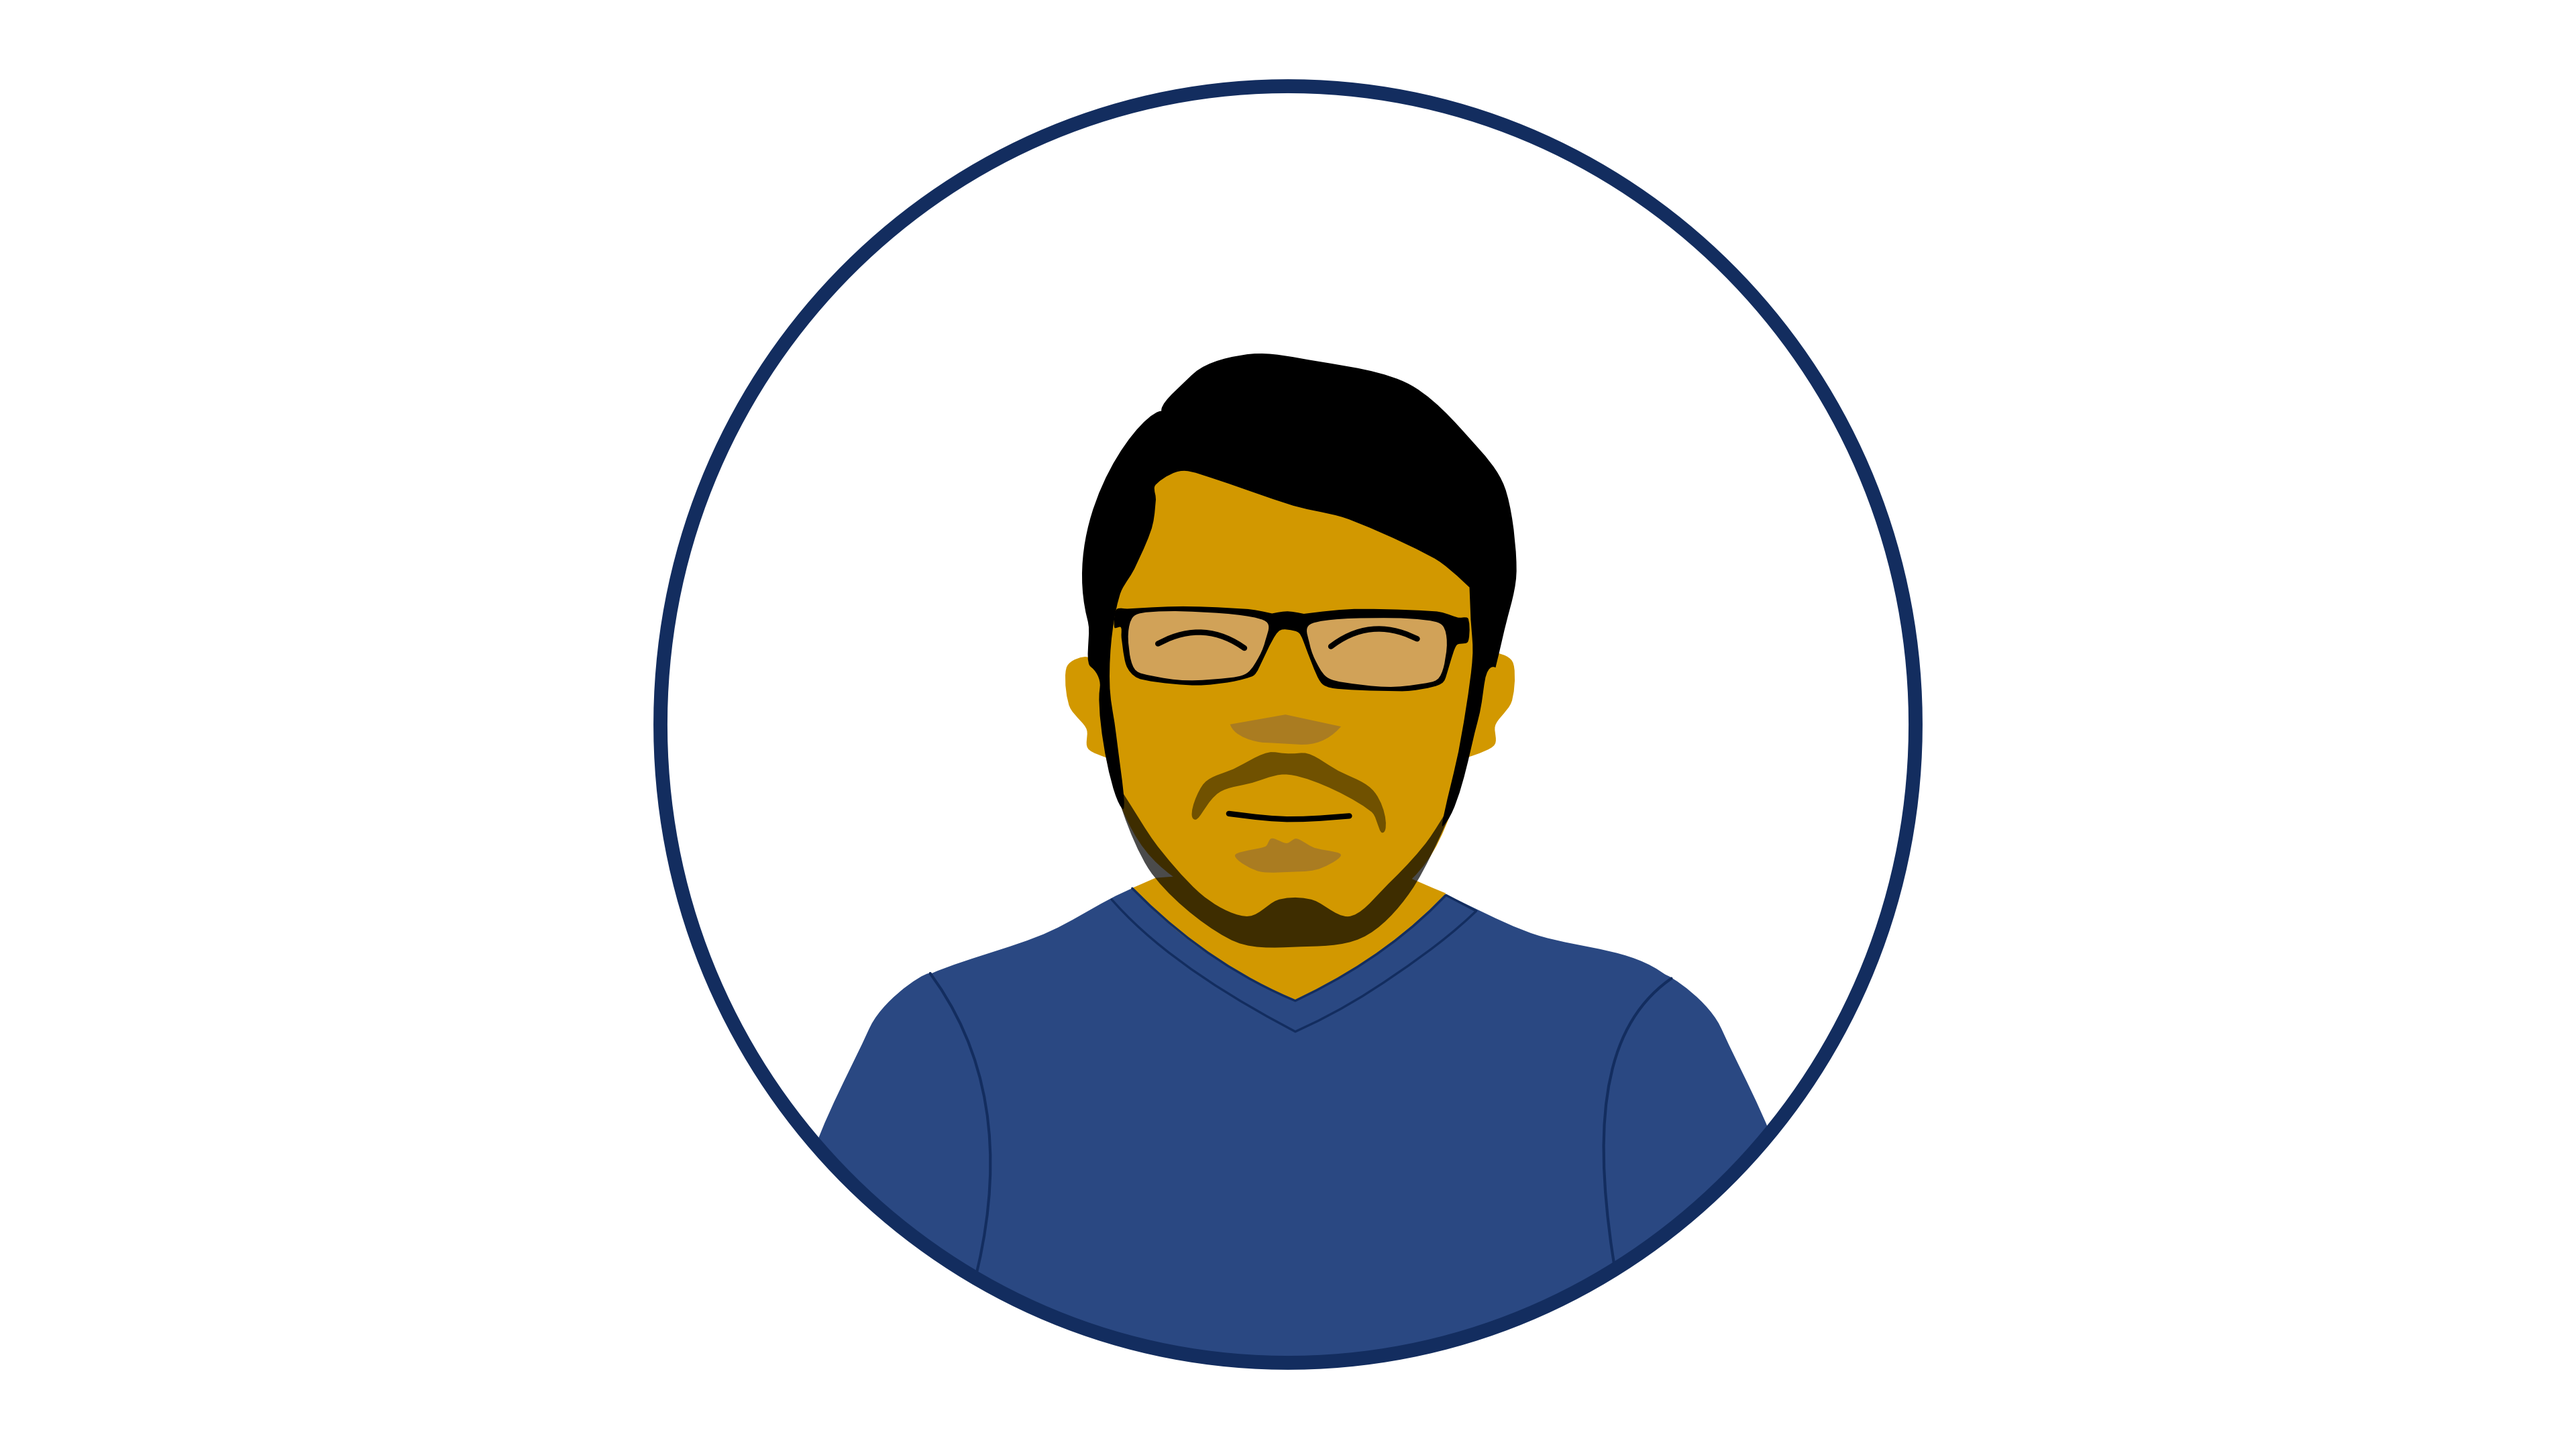
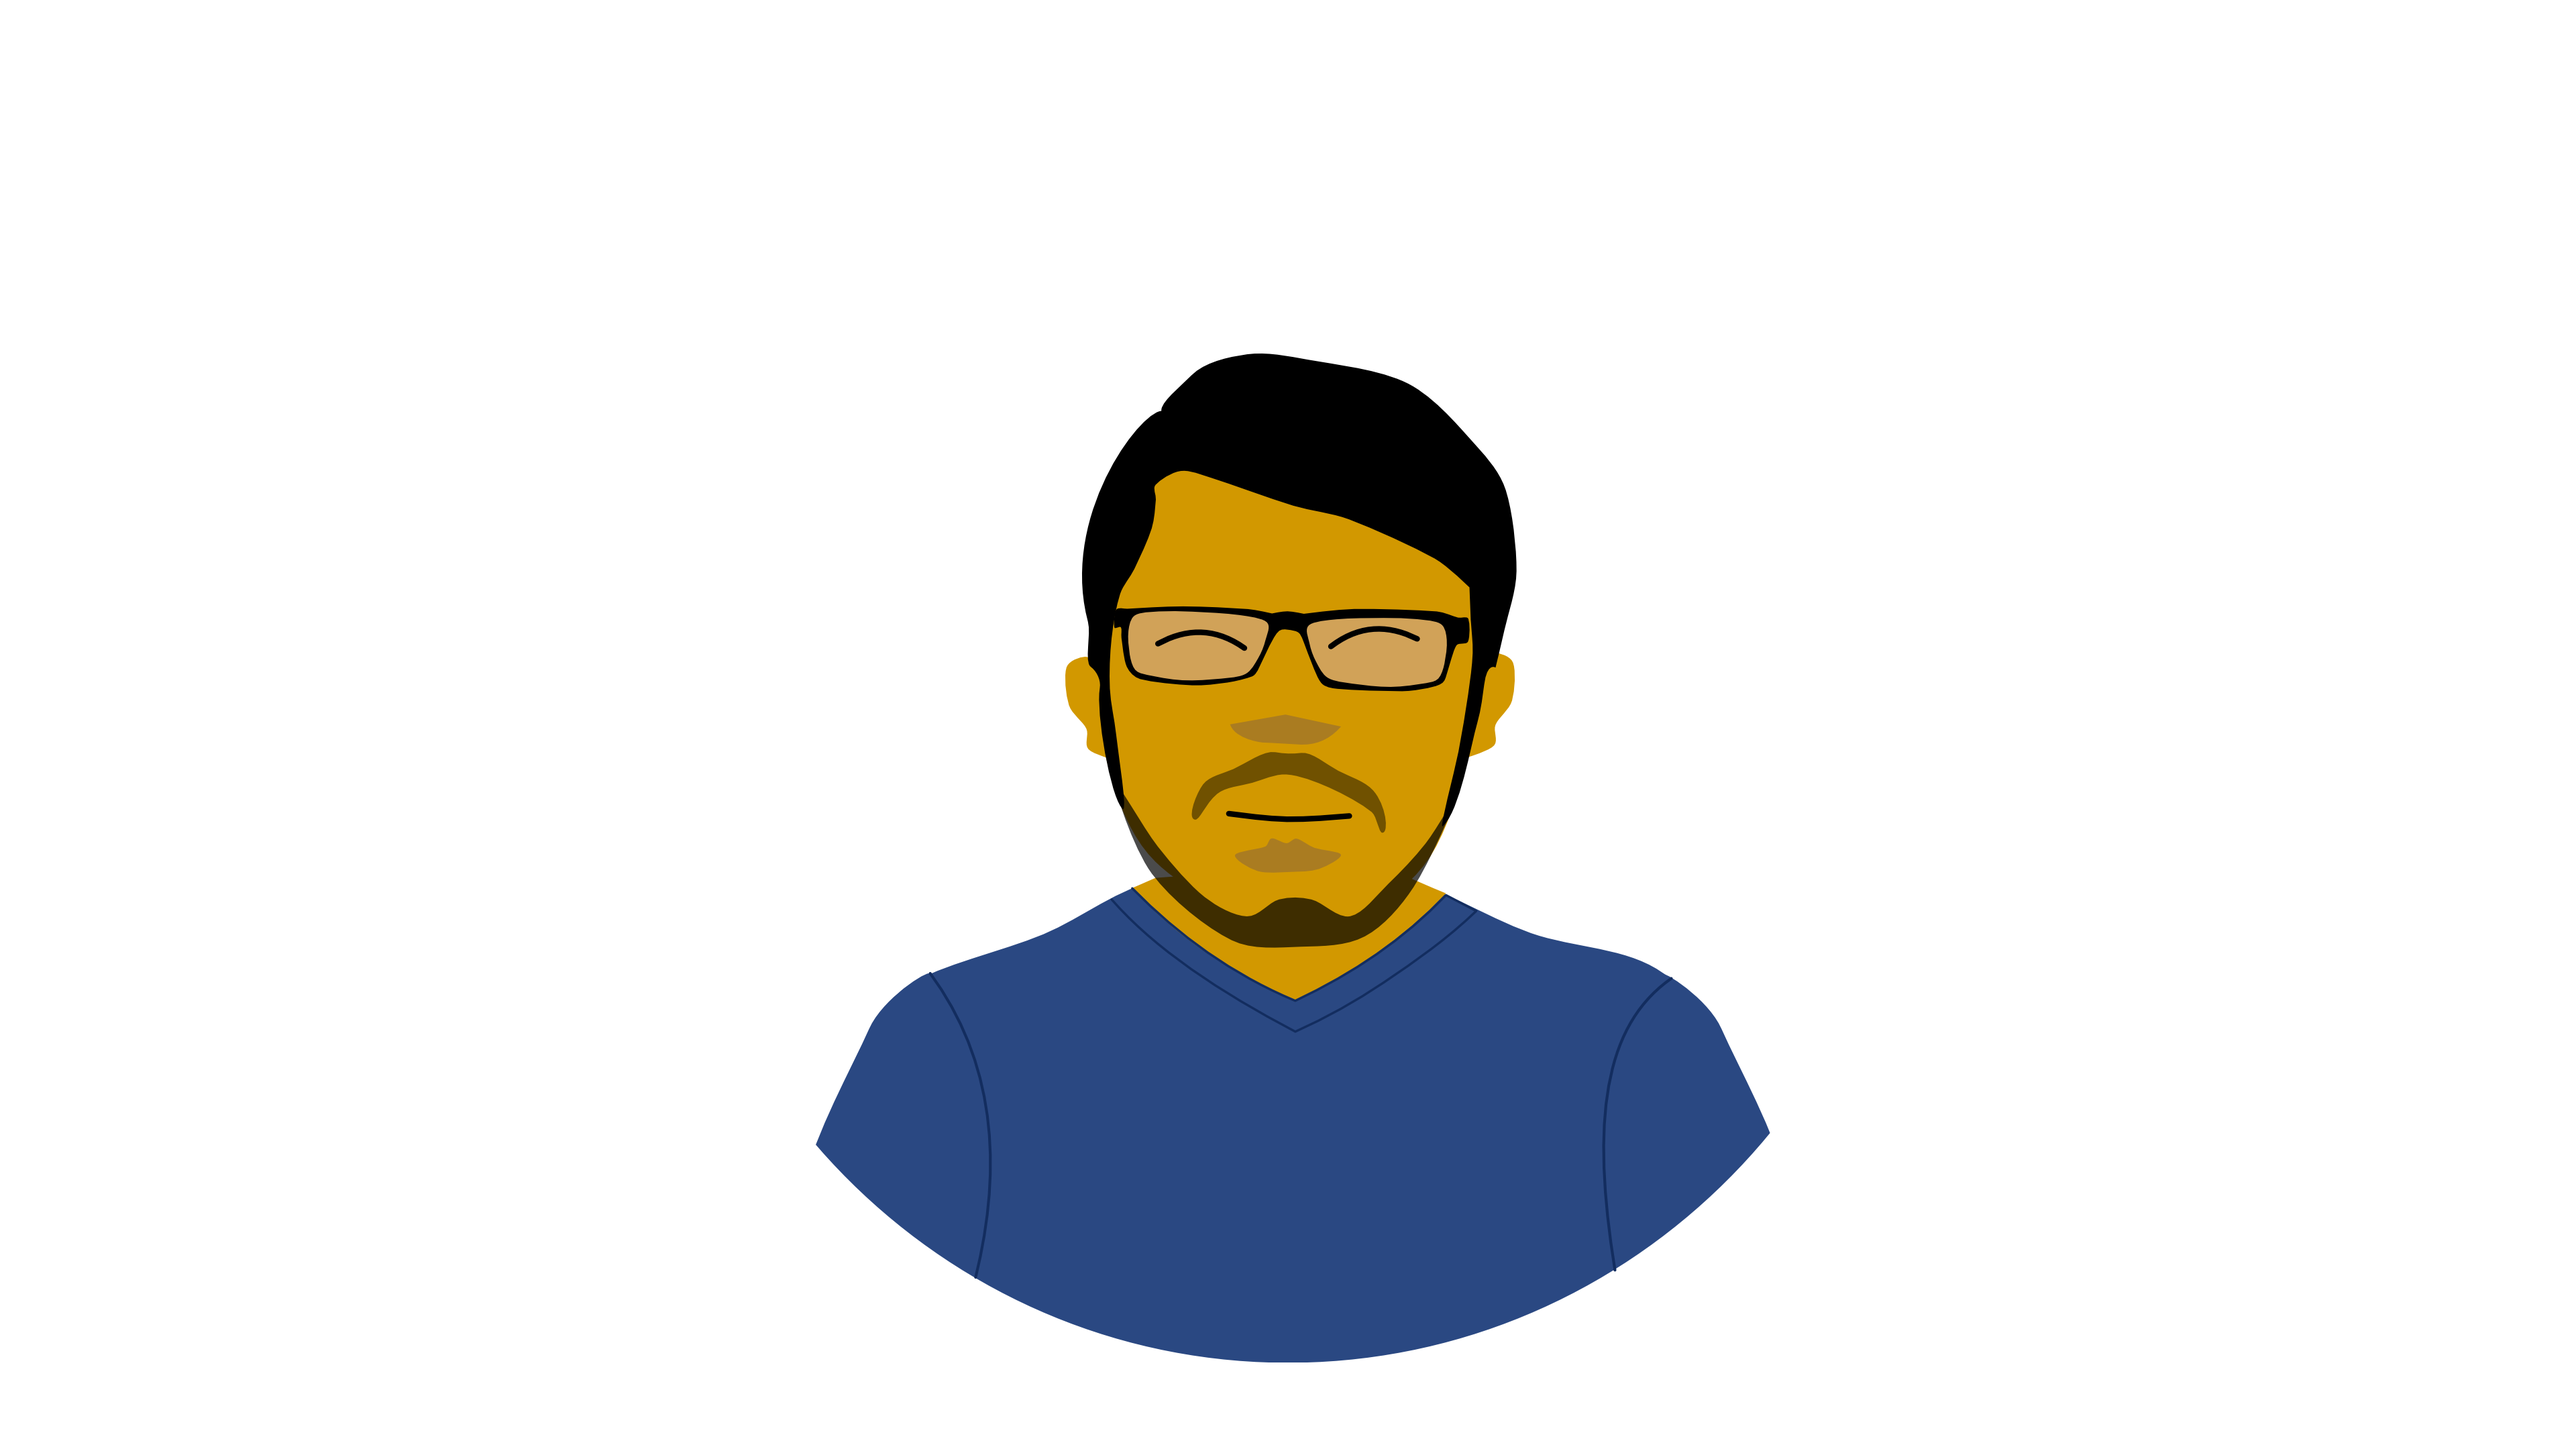
Removed the stroke
The stroke in the edge of the profile pic has been removed, to balance the whole screen

diff --git a/css/styles.css b/css/styles.css
@@ -53,5 +53,6 @@ html {
 
 .text2 {
   font-family: YourFontName2;
-  font-size: 25px;
+  font-size: 30px;
+  margin-top: 13px;
 }
